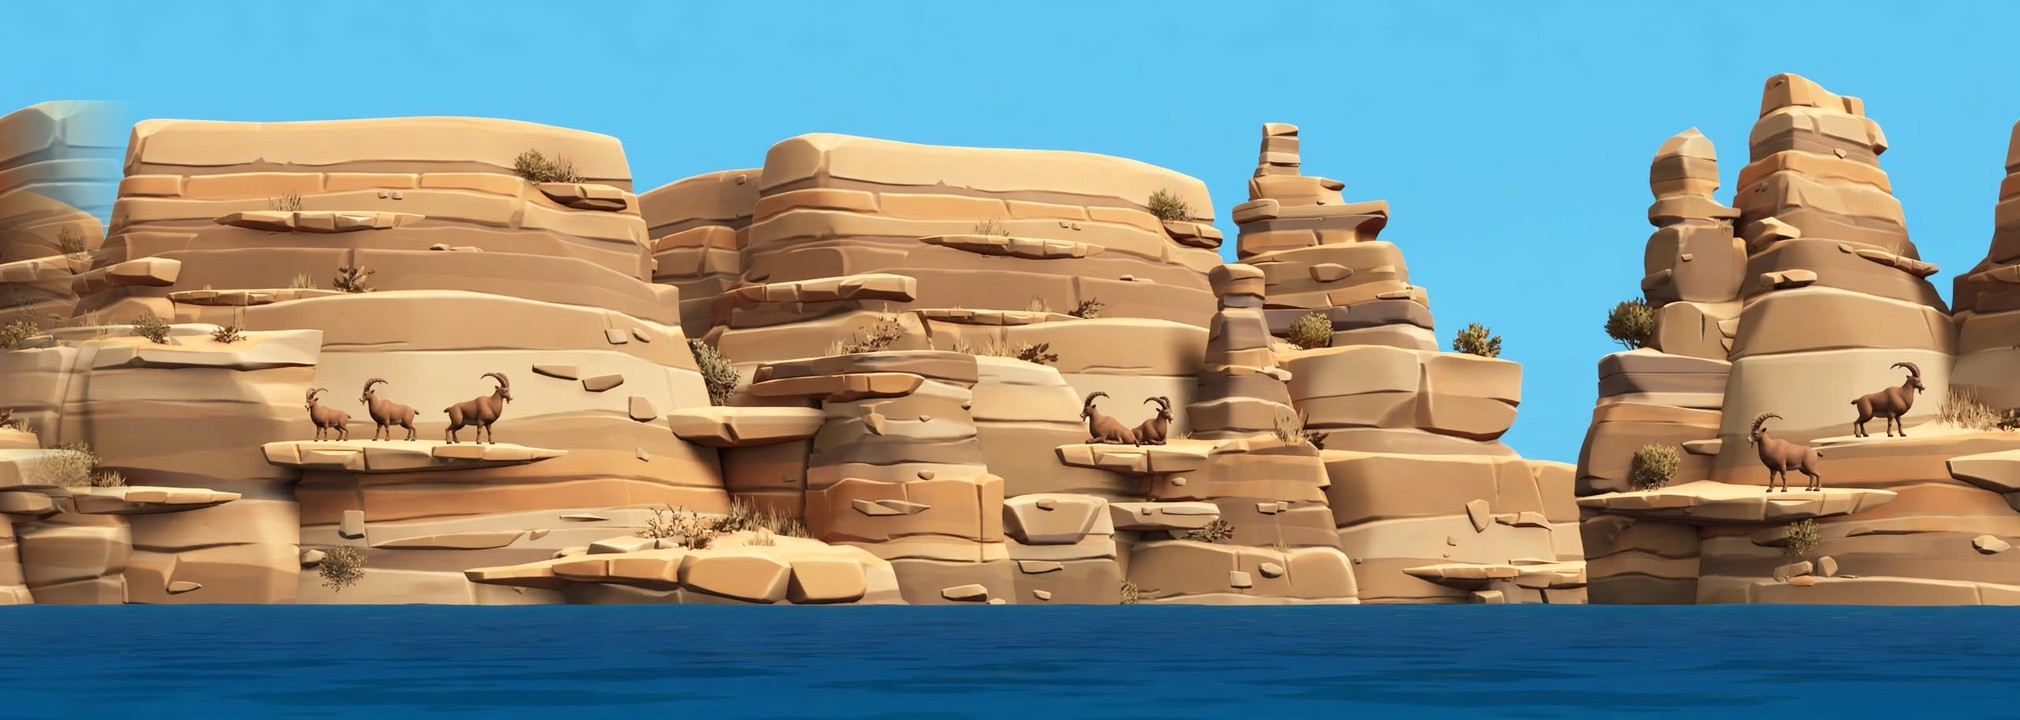
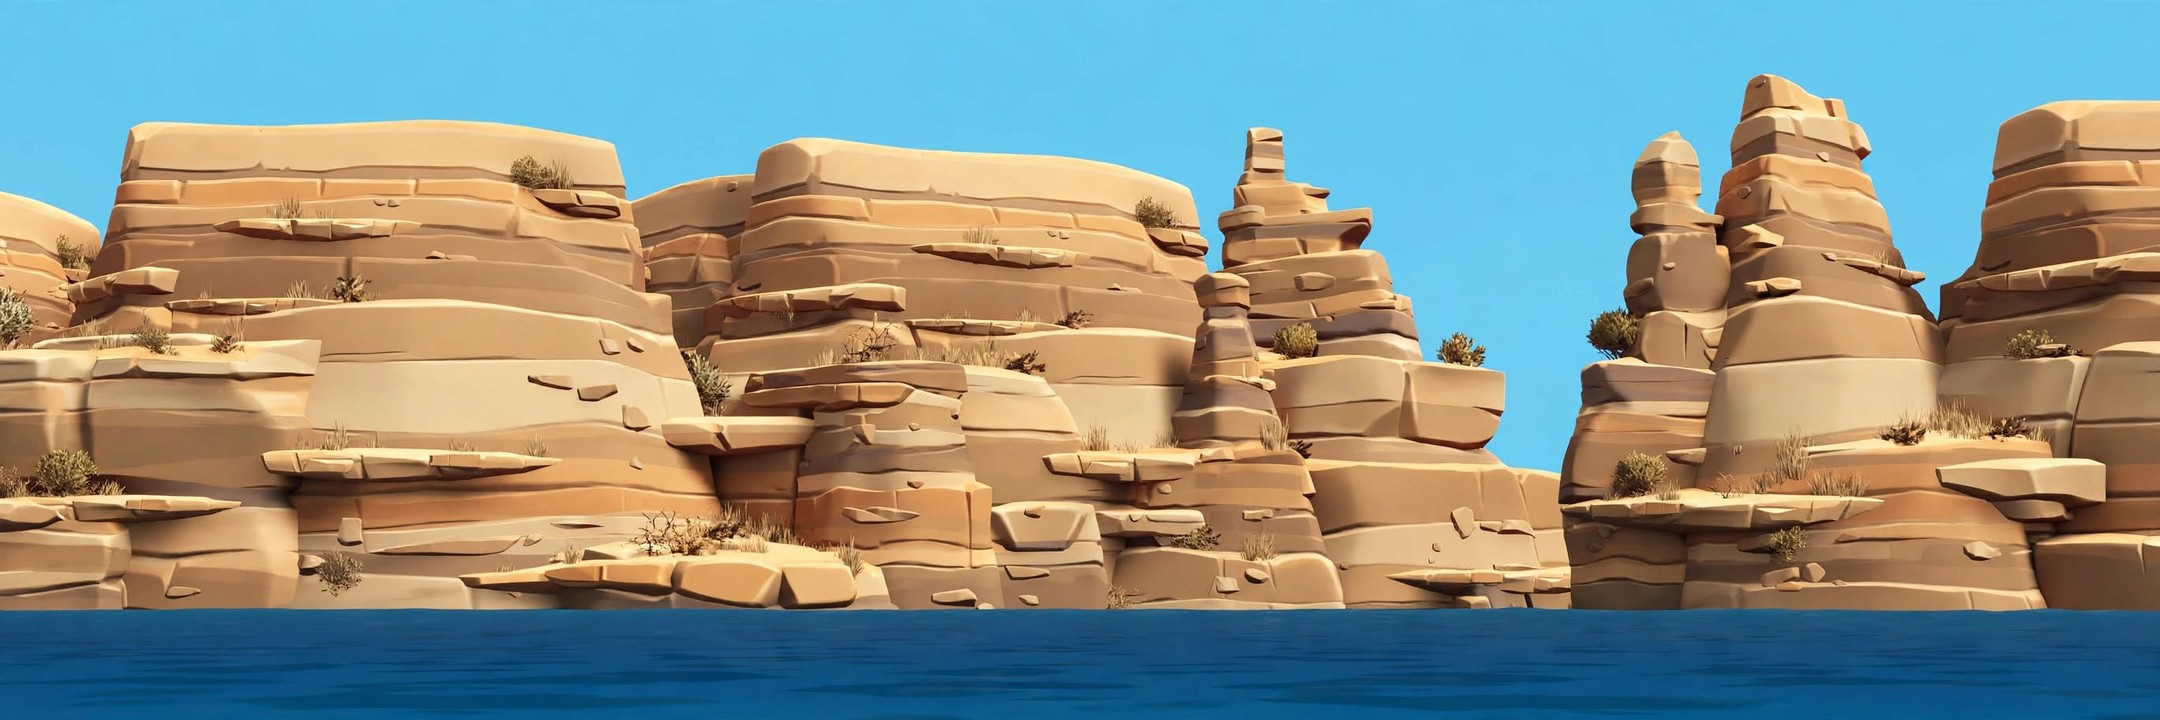
The Rocks (Glen 11-19): his far picture without the ibex; three far-off ibex walking his ledges in it (his walk clip: a few steps, a stop, a turn)
Claude-Session: https://claude.ai/code/session_018JCxWJ972csv1aoHy7ivxa

diff --git a/game/engedi_w5.js b/game/engedi_w5.js
@@ -84,7 +84,7 @@ const ENGEDI = {
   ],
   end: ["May the LORD judge between me and you, and may the LORD avenge me of you; but my hand will not be on you.", "1 Samuel 24:12"],
   build: R => g5Build(R), enter: r => g5Enter(r), update: (dt, r) => g5Update(dt, r), holdDavid: (d, dt) => g5Hold(d, dt),
-  drawDavid: (d, x, y) => g5DrawDavid(d, x, y), draw: camX => g5Draw(camX), drawFront: camX => g5DrawFront(camX),
+  drawDavid: (d, x, y) => g5DrawDavid(d, x, y), draw: camX => g5Draw(camX), drawFront: camX => g5DrawFront(camX), afterFar: (r, o, w, k, fy) => g5FarIbex(r, o, w, k, fy),
   drawOver: () => g5DrawOver(), stoneHits: s => g5StoneHits(s),
 };
 
@@ -506,6 +506,25 @@ function g5Swim(d, dt) {
   if (d.y <= top + 6) g5.breath = Math.min(S.BREATH, g5.breath + dt * 4);
   else { g5.breath -= dt; if (g5.breath <= 0) { g5.breath = S.AFTER; hurtDavid(d.x, "", true); toast("Out of breath! Swim up for air."); } }
   return true;
+}
+// ---- (Glen 11-19: "a couple in motion ... just stand and walk a little") ibex far off on the far picture's ledges: a few
+//  steps, a stop, a turn. x0, x1, y: the ledge in the picture's own px (2160 x 720)
+const G5_FAR_IBEX = { rocks: [{ x0: 50, x1: 290, y: 346 }, { x0: 1153, x1: 1342, y: 365 }, { x0: 740, x1: 880, y: 292 }], H: 40, SPEED: 14 };
+function g5FarIbex(r, o, w, k, fy) {
+  const L = G5_FAR_IBEX[r.id]; if (!L || !SPR.ibex_far) return;
+  const now = performance.now() / 1000, dt = Math.min(0.1, now - (g5.farT || now)); g5.farT = now;
+  g5.farIbex = g5.farIbex || {};
+  const list = g5.farIbex[r.id] = g5.farIbex[r.id] || L.map((l, i) => ({ l, x: l.x0 + (l.x1 - l.x0) * (0.3 + 0.4 * i), f: i ? -1 : 1, stop: 1 + i * 2, t: 0 }));
+  const sk = G5_FAR_IBEX.H / (SPR.ibex_far.h * SCALE * (TUNE.SPRITE_SIZE.ibex_far || 1));
+  for (const b of list) {
+    b.t += dt;
+    if (b.stop > 0) { b.stop -= dt; if (b.stop <= 0 && Math.random() < 0.35) b.f = -b.f; }
+    else { b.x += b.f * G5_FAR_IBEX.SPEED * dt;
+      if (b.x < b.l.x0 || b.x > b.l.x1) { b.x = Math.max(b.l.x0, Math.min(b.l.x1, b.x)); b.f = -b.f; b.stop = 1.5 + Math.random() * 2; }
+      else if (Math.random() < dt * 0.15) b.stop = 2 + Math.random() * 3; }
+    const fr = b.stop > 0 ? 0 : frameOf("ibex_far", b.t);
+    for (let x0 = o - w; x0 < W + w; x0 += w) { const sx = x0 + b.x * k; if (sx > -60 && sx < W + 60) drawSprite("ibex_far", fr, sx, fy + b.l.y * k, b.f, sk); }
+  }
 }
 function g5Hidden() {
   const d = david, S = G5.SNEAK;

diff --git a/game/region.js b/game/region.js
@@ -1218,6 +1218,8 @@ function drawRegionBackdrop(camX) {   // true if it drew the room's backdrop
     const fy = camY < 0 ? Math.round(camY * 0.85) : 0;
     if (camY < 0) ctx.drawImage(far, 0, 0, far.naturalWidth, 3, 0, camY - 2, W, fy - camY + 6);
     tile(far, 0.12, fy, H);
+    if (REGION.afterFar) { const w = far.naturalWidth * H / far.naturalHeight;   // (a region's own, on the far picture: En-Gedi's ibex)
+      REGION.afterFar(r, -((rel * 0.12) % w + w) % w, w, H / far.naturalHeight, fy); }
     if (mid) tile(mid, r.midP ?? 0.45, r.midY || 0, mid.naturalHeight, r.midX || 0);   // (r.midX: px the picture starts in from the room's left: Gath's painted gate on its door)   // (r.midP: a town's own wall, nearly with the room: World 3)
     const near = roomImg(r.near);   // (Glen 11-10: "far, mid and near ground", as Part One) a third layer, nearer and faster, its bottom at nearY (default: the ground line)
     if (near) { const nh = near.naturalHeight * (r.nearK || 1);   // (r.nearK: the strip smaller, Glen 11-18: En-Gedi's camp pots and mats were as tall as David)

diff --git a/game/sprites.js b/game/sprites.js
@@ -4584,6 +4584,18 @@ window.SPRITE_DATA = {
   "ay": 66,
   "align": "feet"
  },
+ "ibex_far": {
+  "src": "../assets/sprites/ibex_far.png",
+  "frames": 12,
+  "w": 222,
+  "h": 196,
+  "ms": 108,
+  "loop": true,
+  "pingpong": false,
+  "ax": 173,
+  "ay": 191,
+  "align": "feet"
+ },
  "ibex_run": {
   "src": "../assets/sprites/ibex_run.png",
   "frames": 12,
